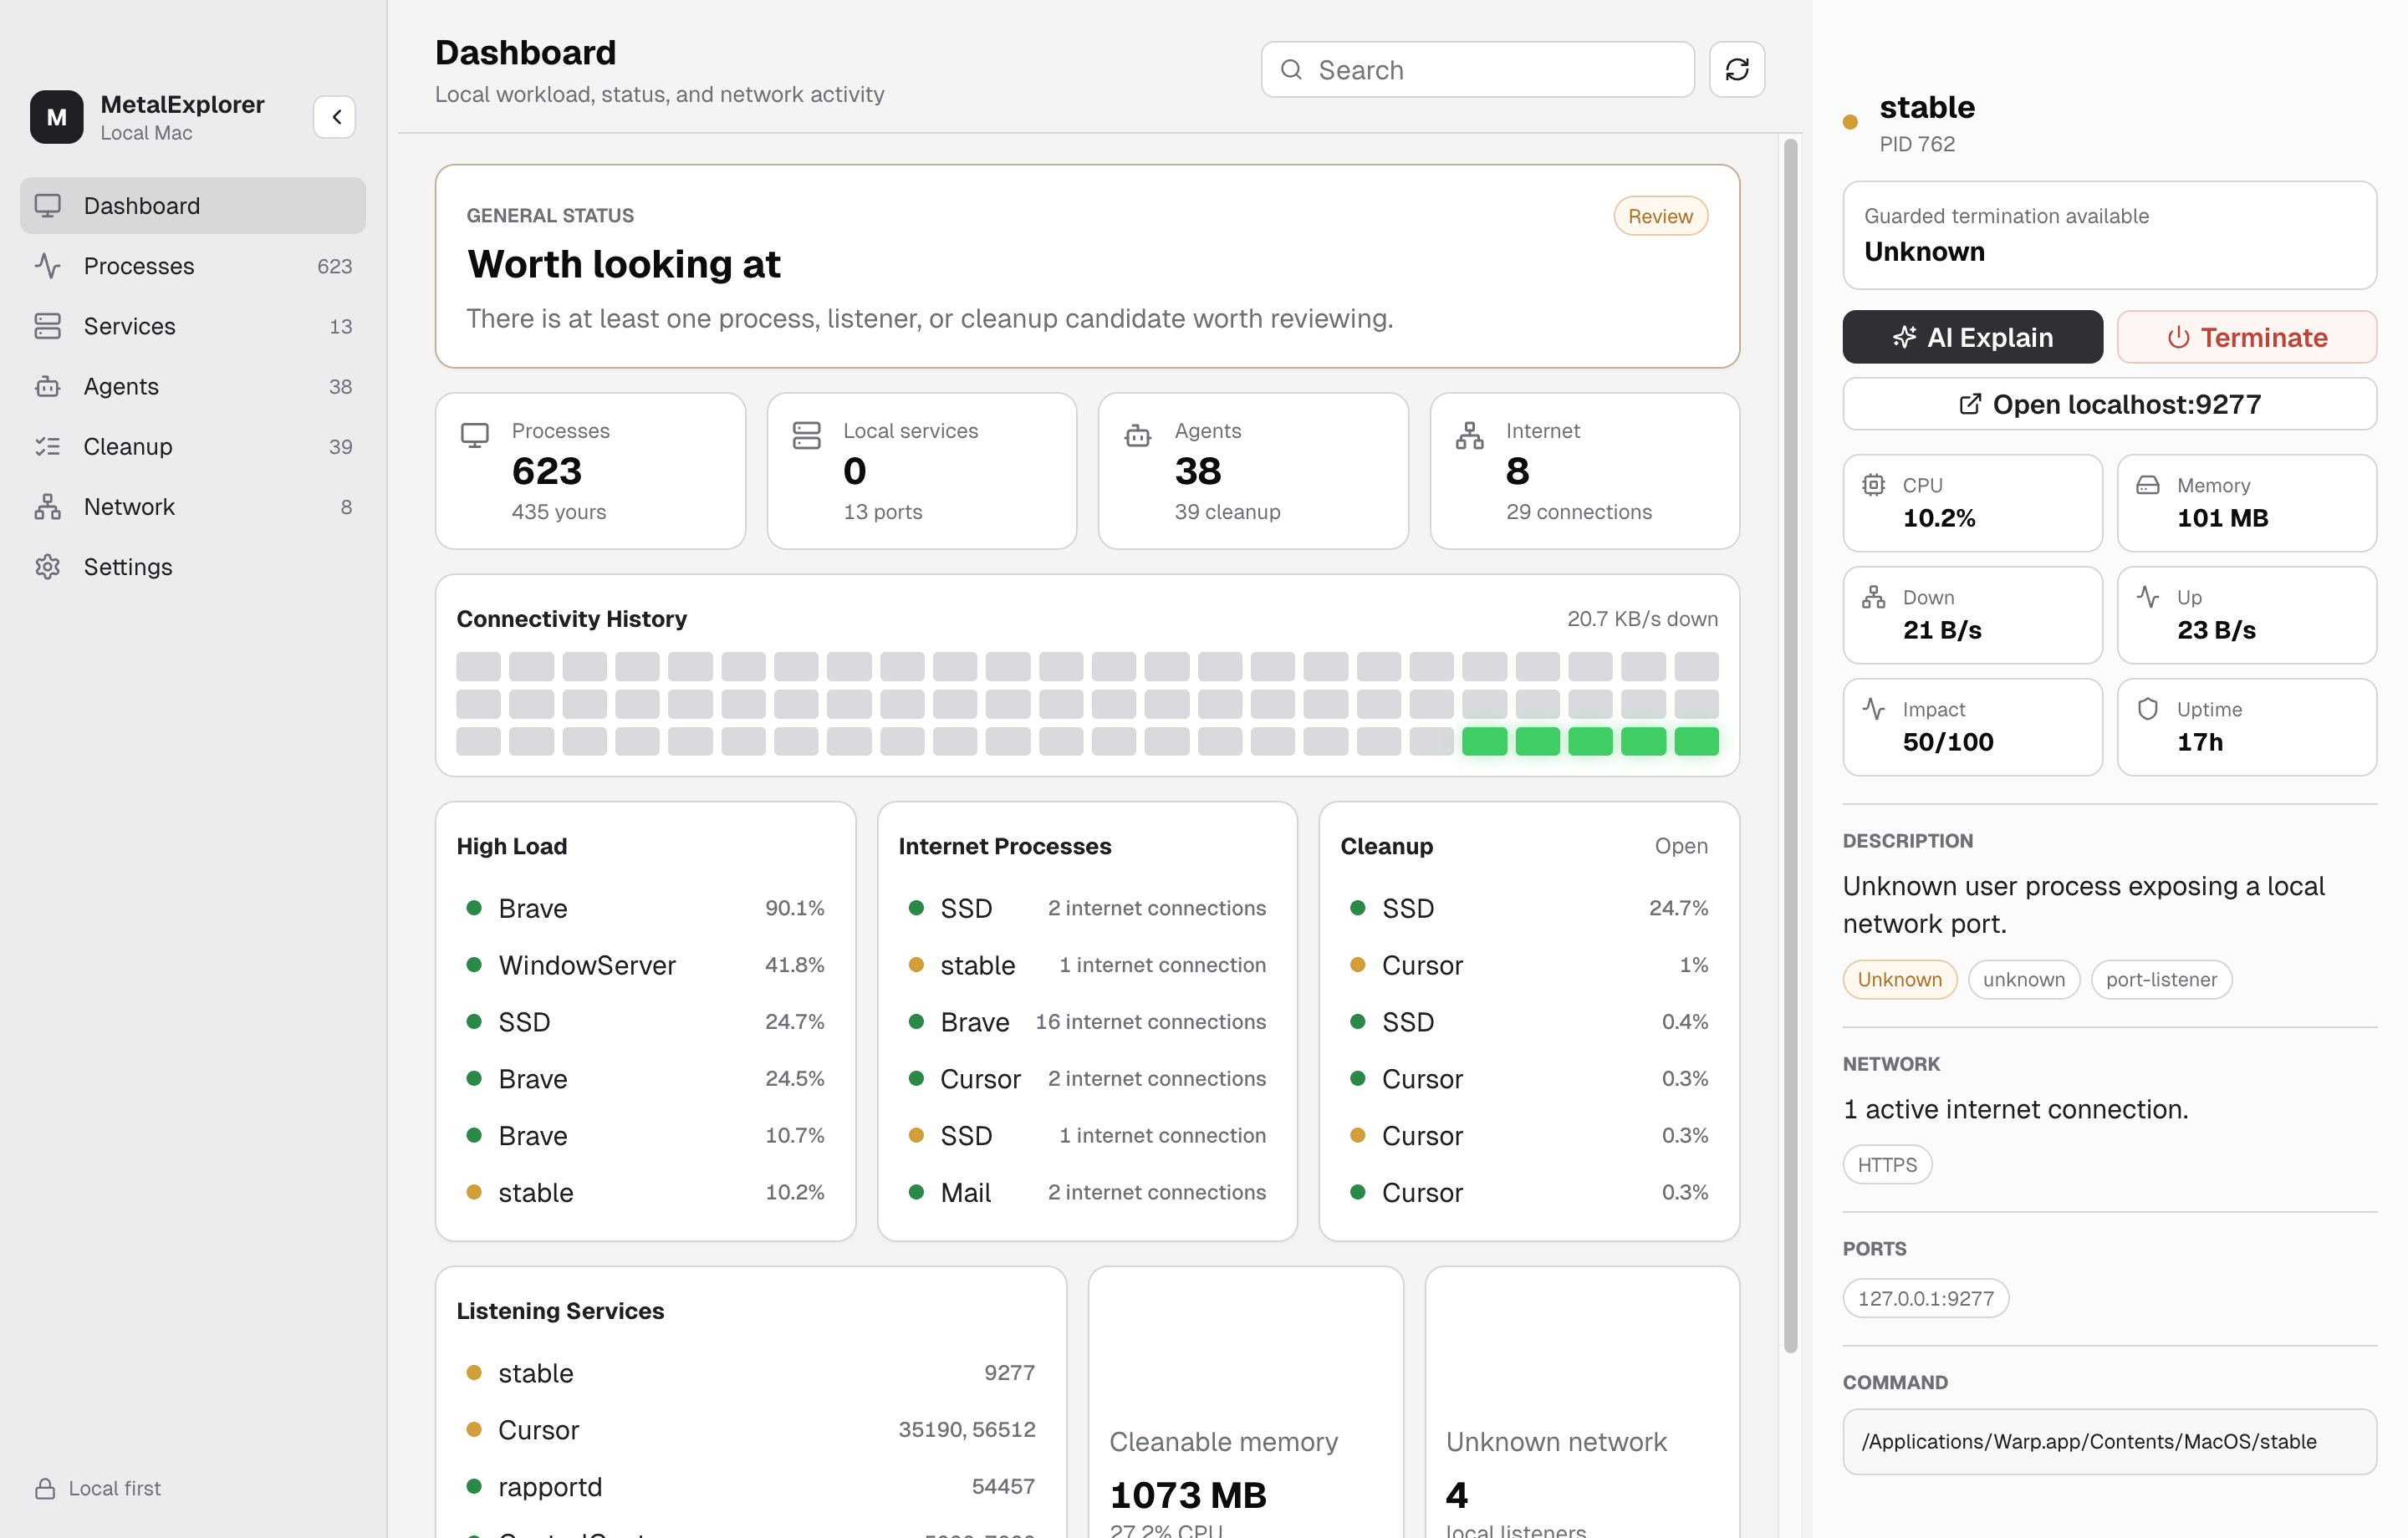
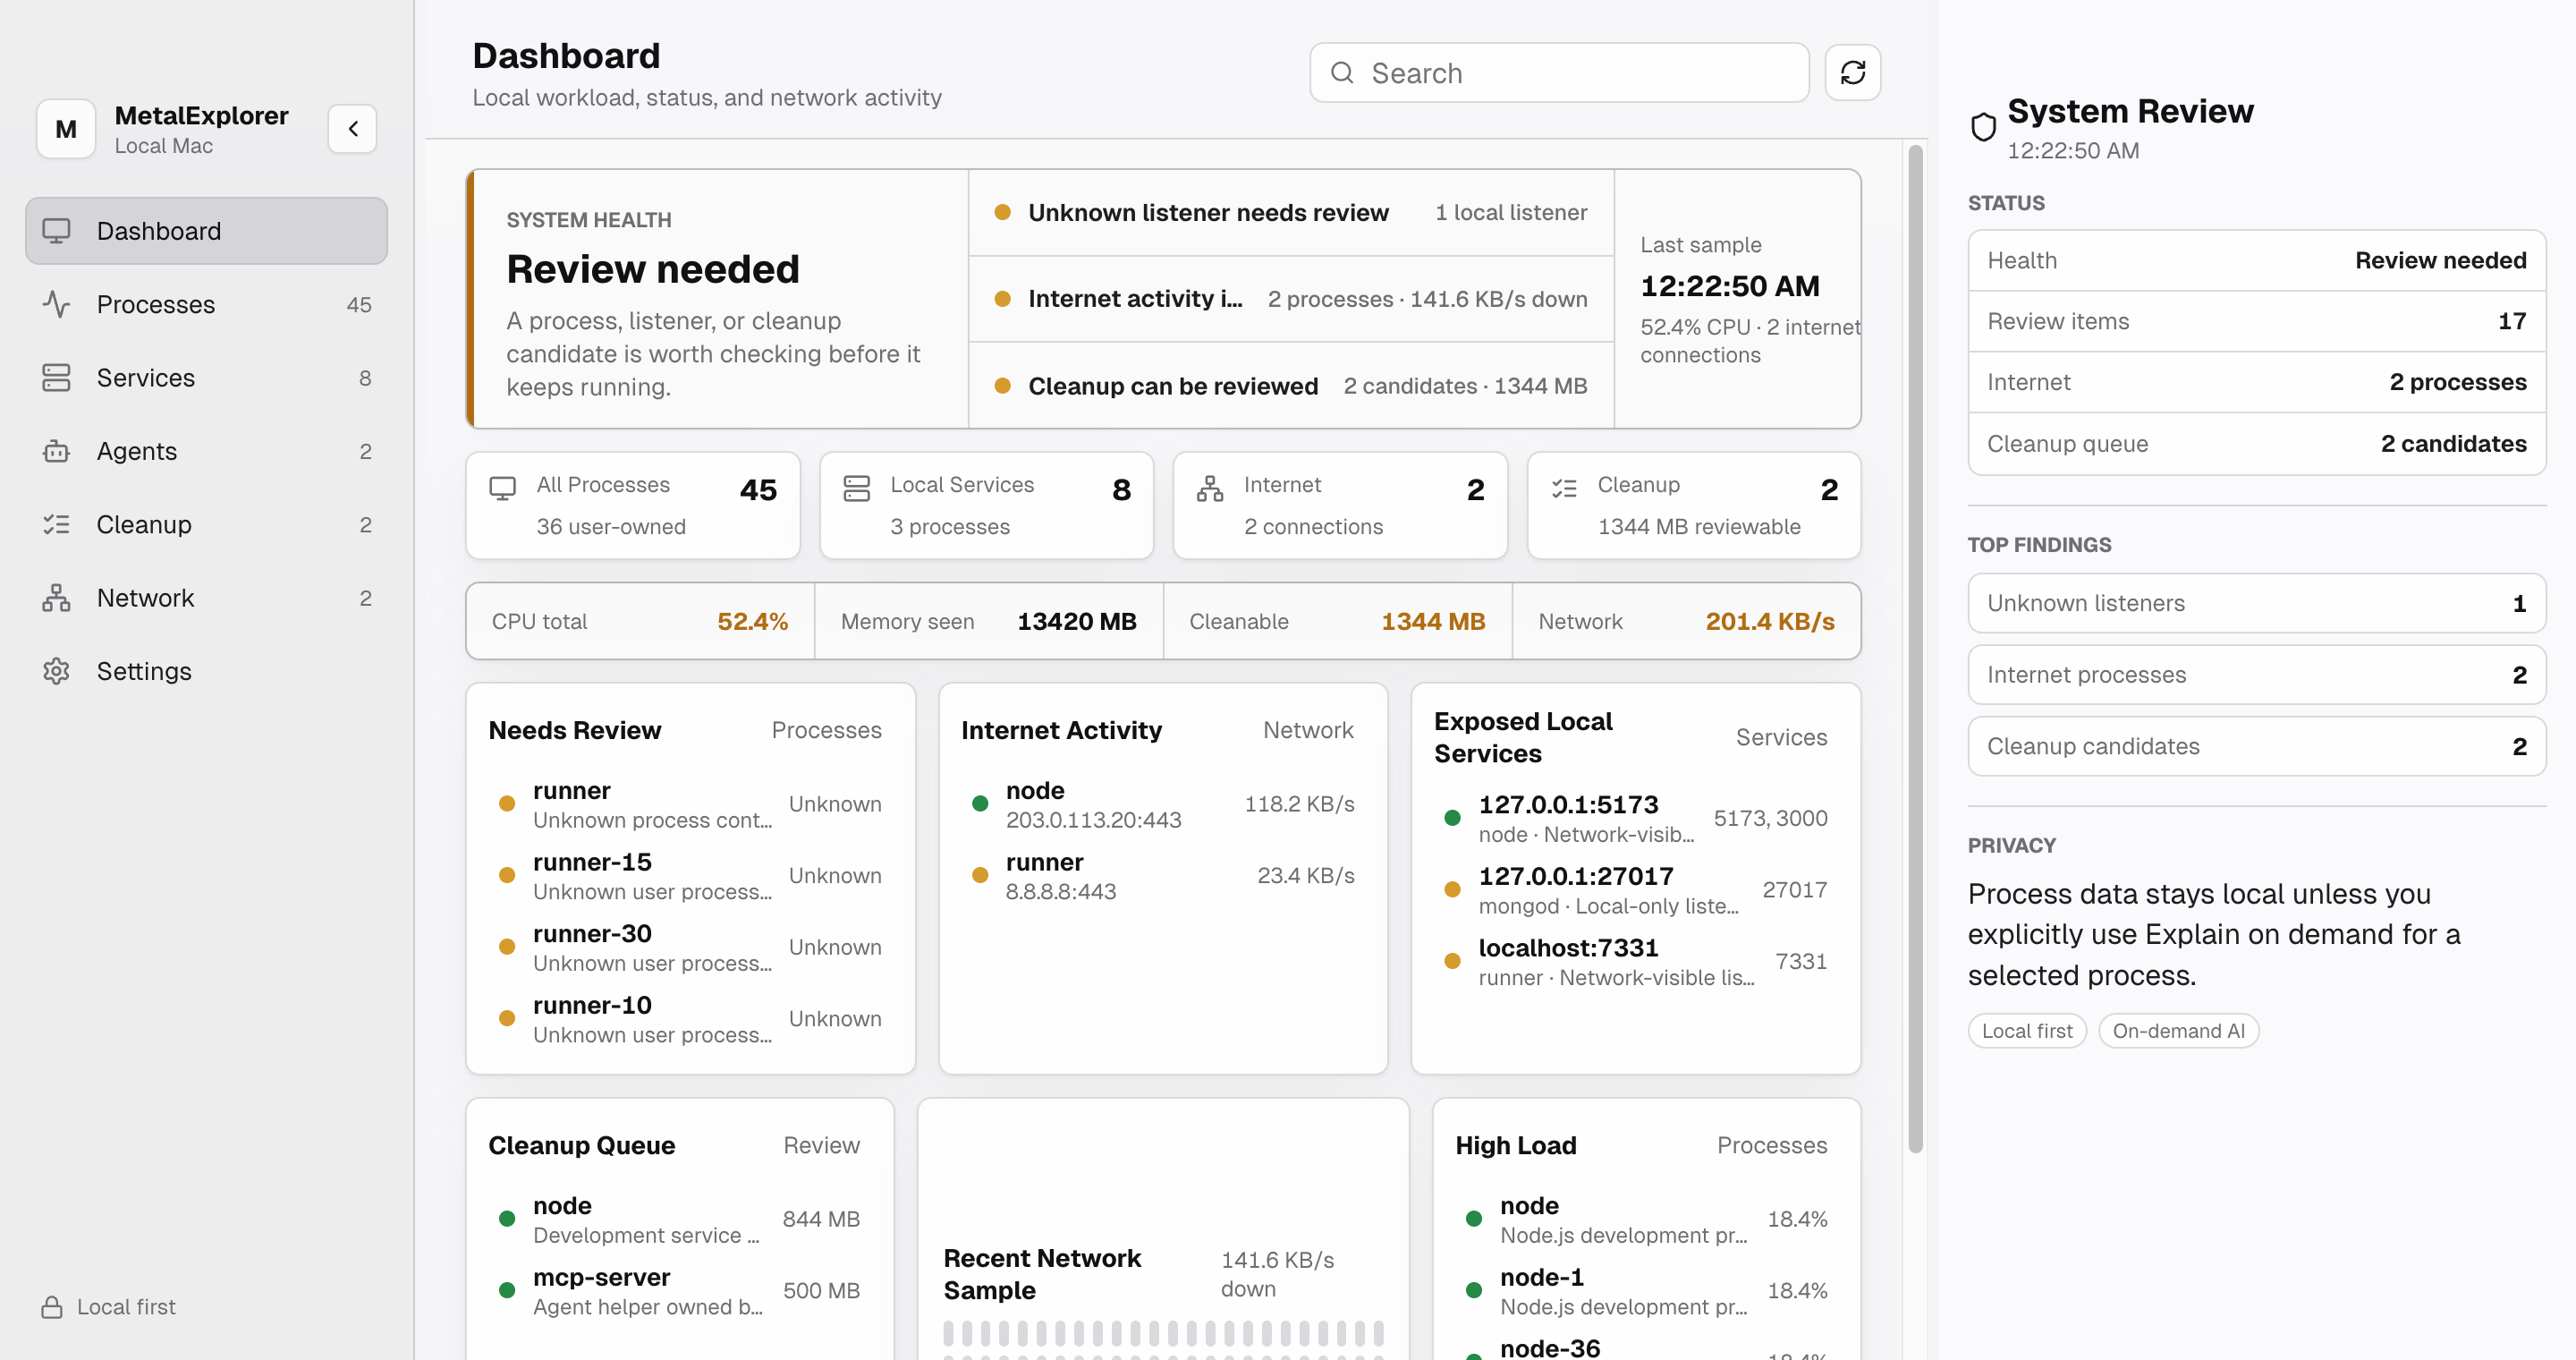
Update README screenshot for v0.2.0

diff --git a/README.md b/README.md
@@ -8,7 +8,7 @@
 ![Local first](https://img.shields.io/badge/privacy-local%20first-2ea043)
 
 <p align="center">
-  <img src="docs/assets/metalexplorer-dashboard.png" alt="MetalExplorer dashboard showing processes, network activity, cleanup candidates, and the process inspector" width="960">
+  <img src="docs/assets/metalexplorer-dashboard.png" alt="MetalExplorer dashboard showing system health, review findings, network activity, cleanup candidates, and the system inspector" width="960">
 </p>
 
 MetalExplorer is for people who run local AI tools, MCP servers, dev servers, package scripts, databases, browser helpers, and background agents, then lose track of what is still alive.
@@ -56,9 +56,9 @@ Read the full safety and privacy notes:
 
 ## Install
 
-Public signed releases are not published yet.
+Apple Silicon release builds are published on GitHub. They are ad-hoc signed and not notarized yet, so macOS may show an unidentified developer warning.
 
-You can download the DMG here -> [MetalExplorer (Apple Silicon)](https://github.com/sethupavan12/MetalExplorer/releases/tag/v0.1.0)
+You can download the DMG here -> [MetalExplorer (Apple Silicon)](https://github.com/sethupavan12/MetalExplorer/releases/tag/v0.2.0)
 
 If not, build locally:
 